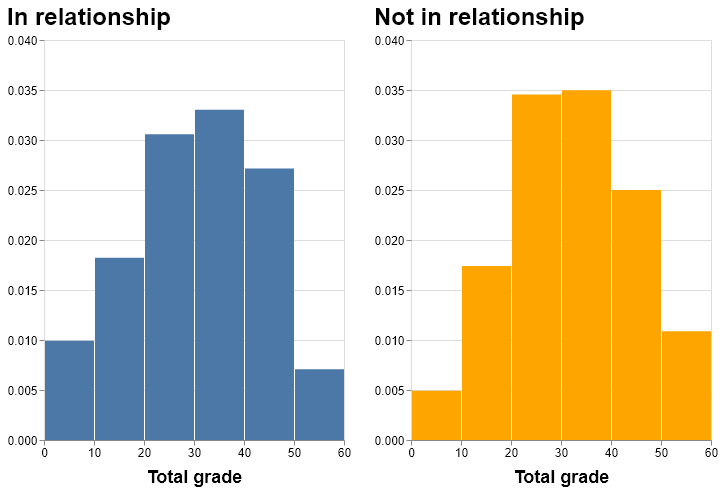
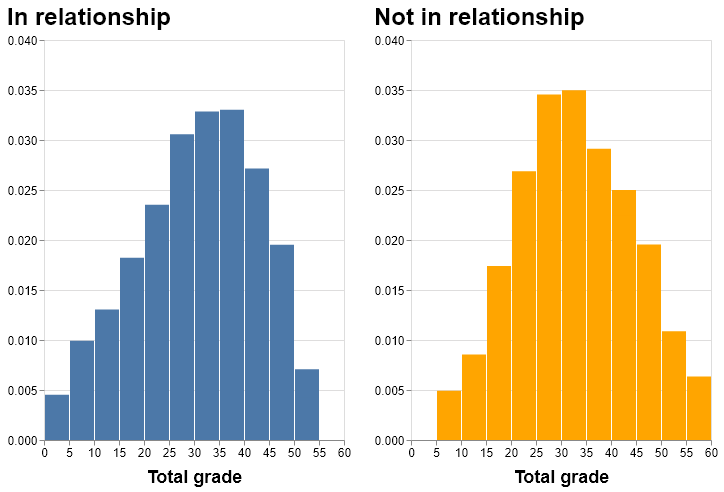
fixed eda, cleaning scripts, updated make file

diff --git a/scripts/eda_script.py b/scripts/eda_script.py
@@ -1,11 +1,14 @@
 # author: A. Muhammad
-# date: 2020-01-18
+# date: 2020-02-01
 
 '''This script performs EDA on the students performance datasets
 for portuguese and math students and outputs necessary tables and
 figures to path provided.
 
 Usage: eda_script.py --file_path=<file_path> --results_path=<results_path>
+
+Example: 
+    python scripts/eda_script.py --file_path=data/ --results_path=results/
 
 Options:
 --file_path=<file_path>  Path (excluding filenames) to the csv file.
@@ -23,6 +26,10 @@ import os
 opt = docopt(__doc__)
 
 def test_function():
+    """
+    Tests the input and output
+    file paths.
+    """
     file_path_check = re.match("([A-Za-z]+[.]{1}[A-Za-z]+)", opt["--file_path"]) 
     out_path_check = re.match("([A-Za-z]+[.]{1}[A-Za-z]+)", opt["--results_path"])
     assert file_path_check == None, "you can not have extensions in path, only directories."
@@ -52,14 +59,12 @@ def main(file_path, results_path):
     
     ## tables
     # agg table math
-    df_math_agg = df_mat[["romantic", "total_grade"]].groupby("romantic").agg(['count', 'mean', 'var'])
-    df_math_agg.to_csv(results_path + "math_table.csv")
+    df_math_agg = df_mat[["romantic", "total_grade"]].groupby("romantic").agg(['count', 'mean', 'std'])
+    df_math_agg['total_grade'].reset_index().round(4).to_csv(results_path + "math_table.csv", index=False)
 
     # agg table por
-    df_por_agg = df_por[["romantic", "total_grade"]].groupby("romantic").agg(['count', 'mean', 'var'])
-    df_por_agg.to_csv(results_path + "por_table.csv")
-
-
+    df_por_agg = df_por[["romantic", "total_grade"]].groupby("romantic").agg(['count', 'mean', 'std'])
+    df_por_agg['total_grade'].reset_index().round(4).to_csv(results_path + "por_table.csv", index=False)
 
     ## print certain findings
     print("{} math students were in relationships and {} were not.".format(
@@ -82,7 +87,7 @@ def main(file_path, results_path):
         'total_grade',
         as_=['total_grade', 'density'],
     ).mark_bar().encode(
-        x=alt.X("total_grade:Q", title="Total grade", bin = alt.Bin(extent=[0, 60], step=10)),
+        x=alt.X("total_grade:Q", title="Total grade", bin = alt.Bin(extent=[0, 60], step=5)),
         y='density:Q',
     ).properties(
         width = 300,
@@ -93,7 +98,7 @@ def main(file_path, results_path):
         'total_grade',
         as_=['total_grade', 'density'],
     ).mark_bar(color='orange').encode(
-        x=alt.X("total_grade:Q", title="Total grade", bin = alt.Bin(extent=[0, 60], step=10)),
+        x=alt.X("total_grade:Q", title="Total grade", bin = alt.Bin(extent=[0, 60], step=5)),
         y='density:Q',
     ).properties(
         width = 300,
@@ -110,7 +115,7 @@ def main(file_path, results_path):
         'total_grade',
         as_=['total_grade', 'density'],
     ).mark_bar().encode(
-        x=alt.X("total_grade:Q", title="Total grade", bin = alt.Bin(extent=[0, 60], step=10)),
+        x=alt.X("total_grade:Q", title="Total grade", bin = alt.Bin(extent=[0, 60], step=5)),
         y='density:Q',
     ).properties(
         width = 300,
@@ -121,7 +126,7 @@ def main(file_path, results_path):
         'total_grade',
         as_=['total_grade', 'density'],
     ).mark_bar(color='orange').encode(
-        x=alt.X("total_grade:Q", title="Total grade", bin = alt.Bin(extent=[0, 60], step=10)),
+        x=alt.X("total_grade:Q", title="Total grade", bin = alt.Bin(extent=[0, 60], step=5)),
         y='density:Q',
     ).properties(
         width = 300,
@@ -139,6 +144,12 @@ def main(file_path, results_path):
 
 
 def mds_special():
+    """
+    Applies mds_special theme to plots 
+    created by
+    Firas Moosvi, instructor at UBC 
+    Master of Data Science program.
+    """
     font = "Arial"
     axisColor = "#000000"
     gridColor = "#DEDDDD"

diff --git a/scripts/data_cleaning.py b/scripts/data_cleaning.py
@@ -1,10 +1,13 @@
 # author: A. Muhammad
-# date: 2020-01-18
+# date: 2020-02-01
 
 '''This script cleans the raw math and portuguese
 students performance data.
 
 Usage: data_cleaning.py --file_path=<file_path> --clean_path=<clean_path>
+
+Example:
+    python scripts/data_cleaning.py --file_path=data/ --clean_path=data/
 
 Options:
 --file_path=<file_path>  Path (excluding filenames) to the csv file.
@@ -22,6 +25,9 @@ import os
 opt = docopt(__doc__)
 
 def test_function():
+    '''
+    Tests the input data and specified paths.
+    '''
     file_path_check = re.match("([A-Za-z]+[.]{1}[A-Za-z]+)", opt["--file_path"]) 
     out_path_check = re.match("([A-Za-z]+[.]{1}[A-Za-z]+)", opt["--clean_path"])
     assert file_path_check == None, "you can not have extensions in path, only directories."
@@ -63,6 +69,10 @@ def main(file_path, clean_path):
     df_combined.to_csv(clean_path + "student-combined_clean.csv", index= False)
 
 def sex_decoding(sex):
+    '''
+    Decodes sex from M/F to full form
+    Male and Female.
+    '''
     if sex == "M":
         return "Male"
     else:
